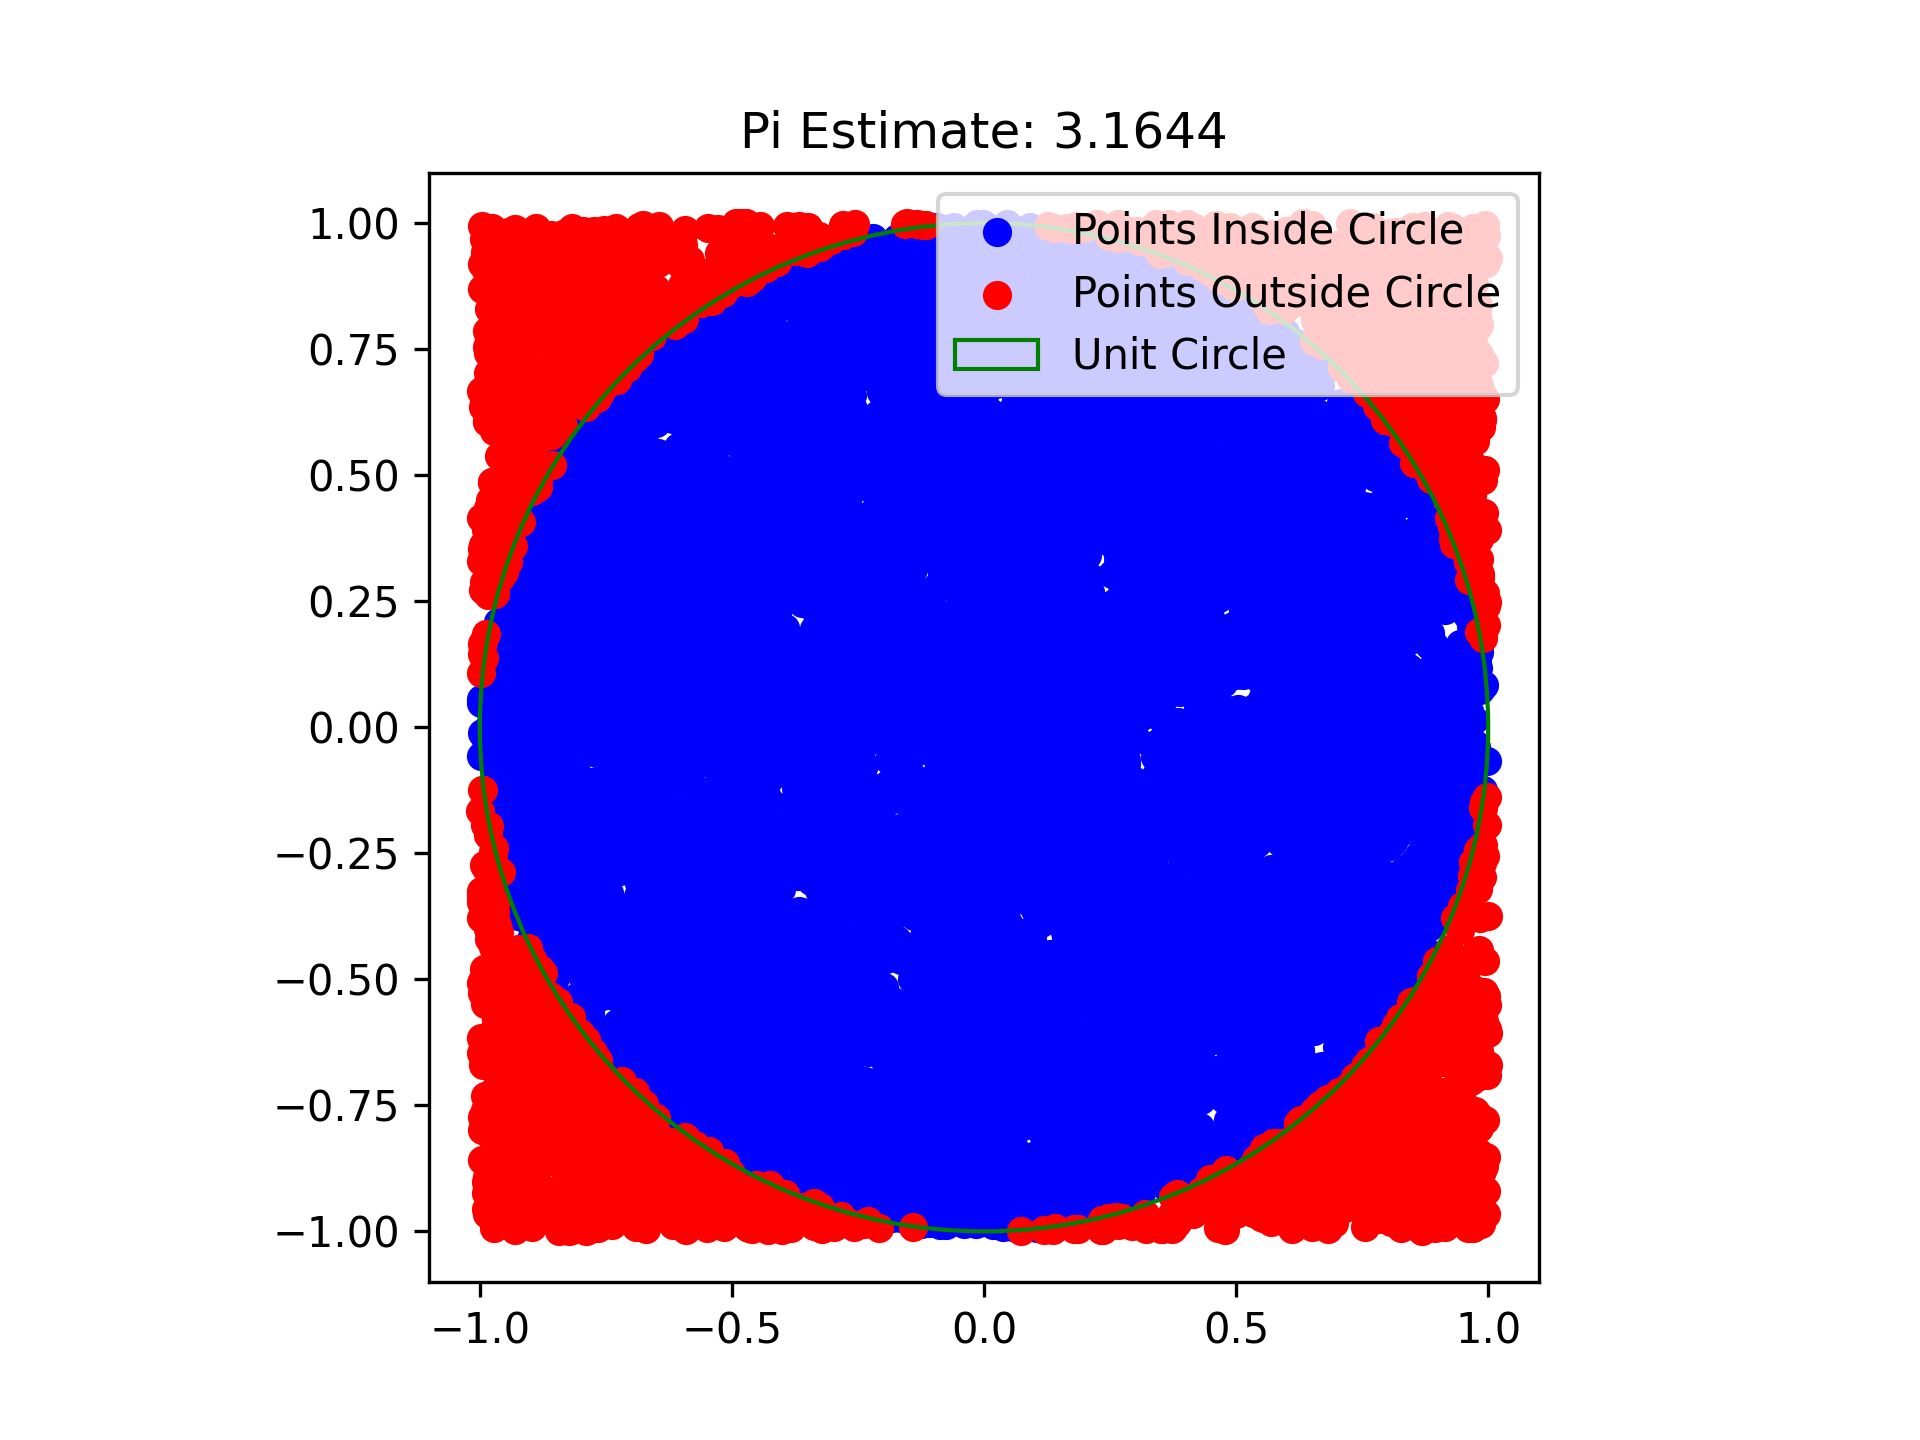
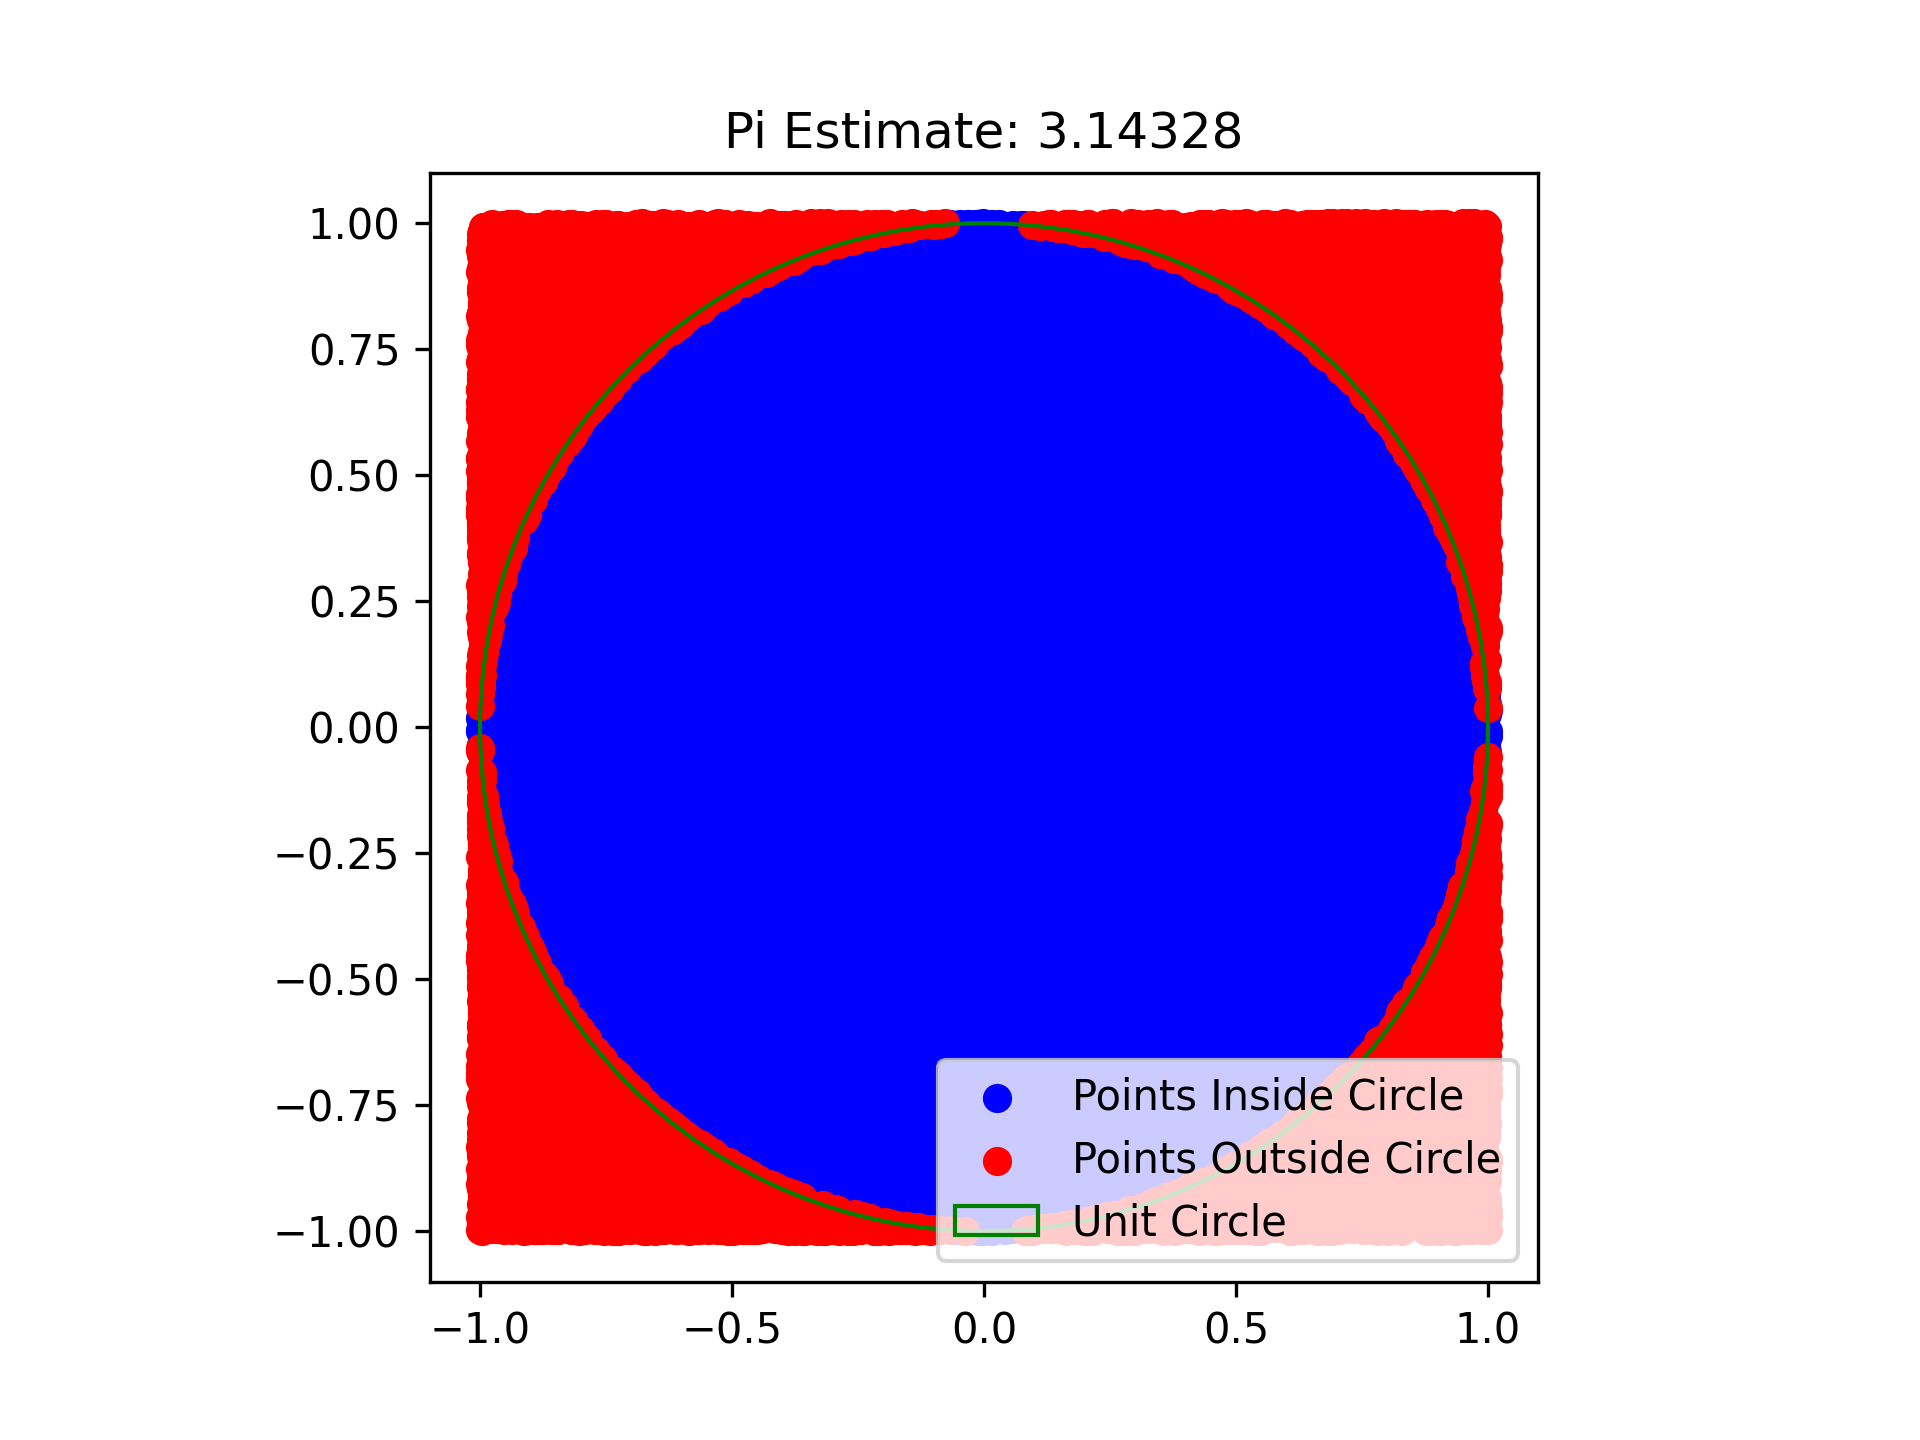
figure-update

diff --git a/monte_carlo/threedim_randomwalk.py b/monte_carlo/threedim_randomwalk.py
@@ -16,6 +16,11 @@ To edit the numper of points generated, edit NUMPNTS global variable
 
 import numpy as np
 import matplotlib.pyplot as plt
+from pathlib import Path
+
+
+FIGURE_SAVE_LOCATION = Path().resolve() / "figures"
+FIGURE_SAVE_LOCATION.mkdir(parents=True, exist_ok=True)
 
 # Number of steps
 N = 10000
@@ -46,4 +51,5 @@ ax.set_xlabel('X')
 ax.set_ylabel('Y')
 ax.set_zlabel('Z')
 plt.title('3D Random Walk')
+plt.savefig(FIGURE_SAVE_LOCATION / "3d-monte-carlo-walk.png", dpi=300)
 plt.show()

diff --git a/monte_carlo/3dim_integral.py b/monte_carlo/3dim_integral.py
@@ -19,7 +19,6 @@ To edit the number of points generated, edit NUMPNTS global variable
 """
 
 import numpy as np
-from pathlib import Path
 
 FIGURE_SAVE_LOCATION = Path().resolve() / "figures"
 FIGURE_SAVE_LOCATION.mkdir(parents=True, exist_ok=True)

diff --git a/monte_carlo/basic_integral.py b/monte_carlo/basic_integral.py
@@ -20,7 +20,7 @@ from pathlib import Path
 FIGURE_SAVE_LOCATION = Path().resolve() / "figures"
 FIGURE_SAVE_LOCATION.mkdir(parents=True, exist_ok=True)
 
-NUMPNTS = 1000
+NUMPNTS = 10000
 
 
 def monte_carlo_integral(num_samples):
